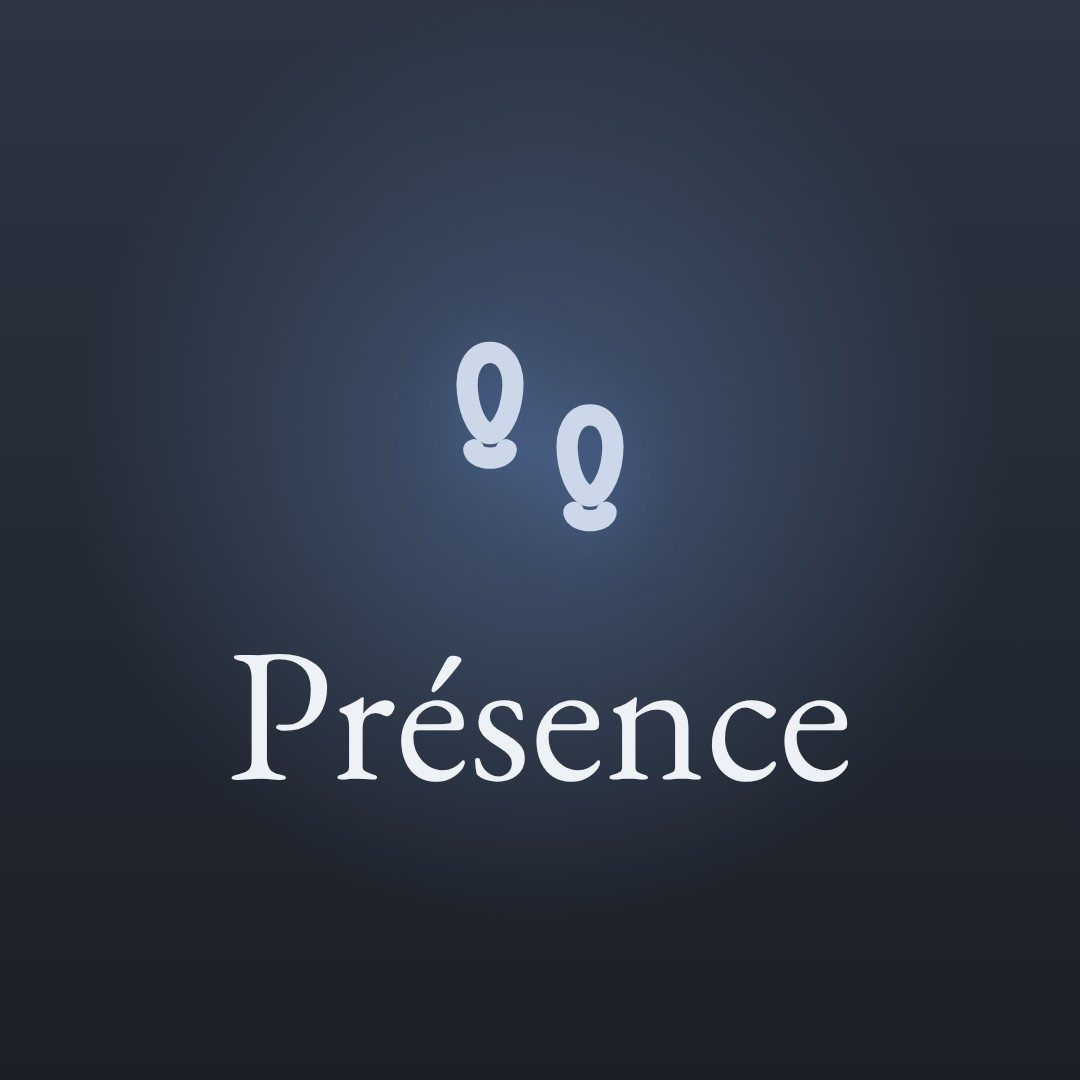
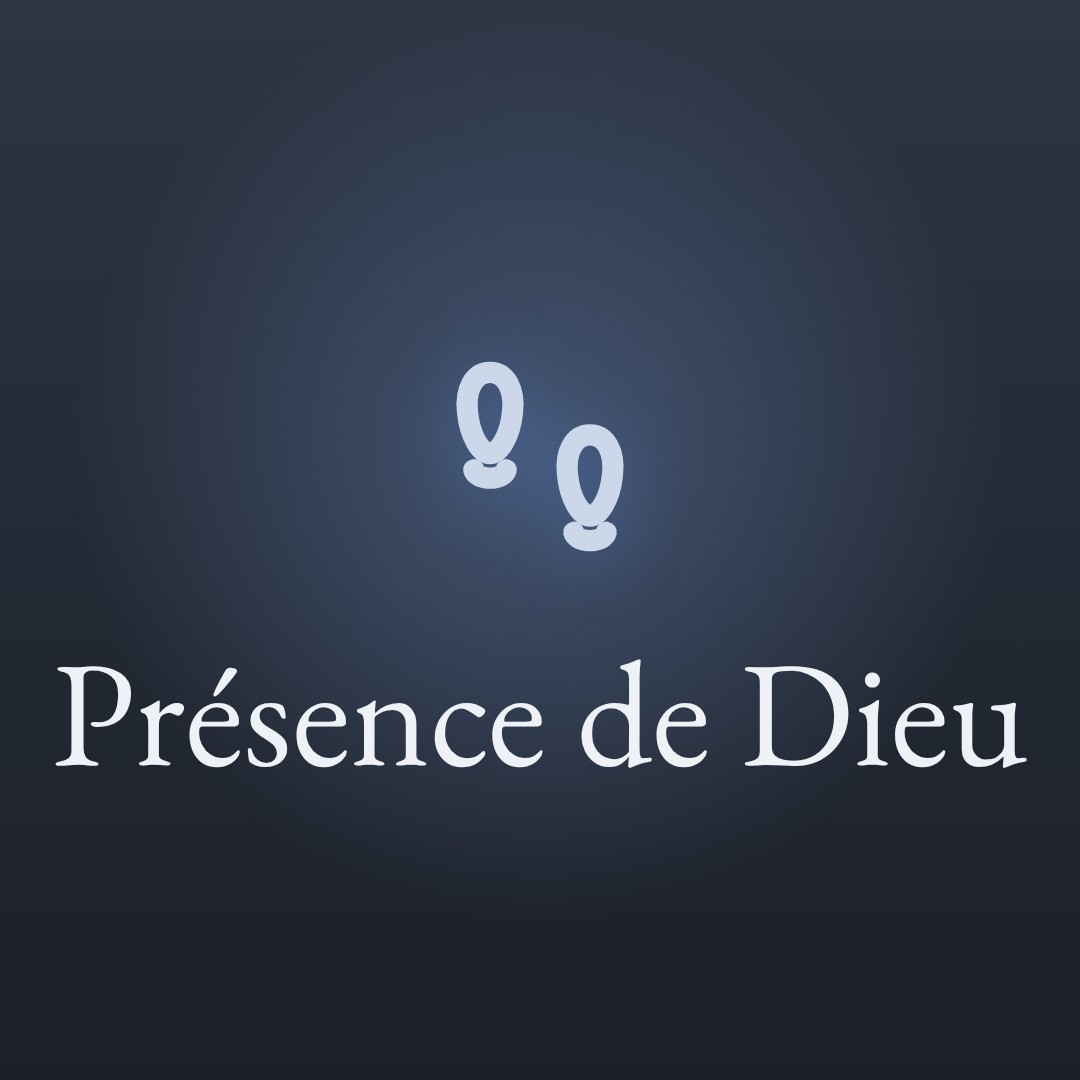
Theme solitude : « La Présence de Dieu » (titre, playlist, couverture)
Claude-Session: https://claude.ai/code/session_016HiBy1pZA8dkCm1bzQjfLZ

Changed region(s): [[0.0611, 0.5806, 0.9472, 0.7333], [0.3972, 0.3056, 0.4889, 0.4583], [0.5194, 0.3667, 0.5806, 0.5194]]

diff --git a/thematic_meditation.py b/thematic_meditation.py
@@ -158,8 +158,8 @@ THEMES = {
         lines=["Le combat", "spirituel"], emoji="\u2694\ufe0f", tag="CombatSpirituel",
         palette=((28, 10, 12), (15, 5, 6), (200, 90, 90), (225, 120, 120), (245, 232, 232), (160, 95, 98))),
     "solitude": dict(
-        file="solitude_curated.json", title="La pr\u00e9sence",
-        lines=["La pr\u00e9sence", ""], emoji="\U0001f463", tag="Pr\u00e9sence",
+        file="solitude_curated.json", title="La pr\u00e9sence de Dieu",
+        lines=["La pr\u00e9sence", "de Dieu"], emoji="\U0001f463", tag="Pr\u00e9sence",
         palette=((26, 22, 16), (14, 12, 8), (200, 180, 150), (222, 205, 178), (246, 242, 234), (160, 148, 125))),
     "famille": dict(
         file="famille_curated.json", title="La famille",

diff --git a/scripts/playlists_themes.py b/scripts/playlists_themes.py
@@ -32,7 +32,7 @@ MODE = os.environ.get("MODE", "installer")
 MAX = int(os.environ.get("MAX") or 60)
 COUVERTURE = "v2"   # monter pour reposer toutes les couvertures
 # Couvertures refaites pour un seul theme (9 nov. 2026 : nom sans « de Dieu »).
-COUVERTURES = {"protection": "v3", "amour": "v3", "promesses": "v3", "confiance": "v3", "solitude": "v3"}
+COUVERTURES = {"protection": "v3", "amour": "v3", "promesses": "v3", "confiance": "v3", "solitude": "v4"}  # v4 : « Présence de Dieu » (12 nov. 2026, exception voulue par BC)
 # Couverture carree obligatoire : un essai en 16:9 (8 nov. 2026) a ete refuse par l'API.
 
 

diff --git a/yt_themes.py b/yt_themes.py
@@ -40,7 +40,7 @@ EXISTANTES = {
     "famille": "\U0001f3e1 La Famille",
     "gratitude": "\U0001f64c La Gratitude",
     "combat": "⚔ Le Combat Spirituel",
-    "solitude": "\U0001f463 La Présence",
+    "solitude": "\U0001f463 La Présence de Dieu",
     "sagesse": "\U0001f4a1 Sagesse Biblique",
     "paroles-de-jesus": "✝ Paroles de Jésus",
     "propheties": "\U0001f4ef Prophéties Bibliques",

diff --git a/yt_playlists.py b/yt_playlists.py
@@ -58,7 +58,7 @@ PLAYLISTS_THEMATIQUES = {
     "force":      "\U0001f981 La Force et le Courage",
     "gratitude":  "\U0001f64c La Gratitude",
     "combat":     "⚔ Le Combat Spirituel",
-    "solitude":   "\U0001f463 La Présence",
+    "solitude":   "\U0001f463 La Présence de Dieu",
     "famille":    "\U0001f3e1 La Famille",
 }
 
